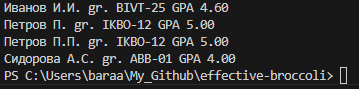
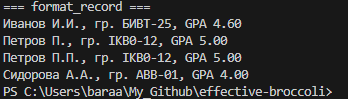
.

diff --git a/README.md b/README.md
@@ -156,7 +156,7 @@ except Exception as e:
 
 ![alt text](./images/lab02/array.png)
 
-## matrix
+### matrix
 
 ```python
 def transpose(mat: list[list[float | int]]) -> list[list]:
@@ -234,28 +234,43 @@ except Exception as e:
 
 ![alt text](./images/lab02/matrix.png)
 
-## tuples
+### tuples
 
 ```python
-def format_record(fio: str,group: str,gpa: float) -> str:
-    if not fio or not group:
-        raise ValueError("you have to enter the name")
-    if not isinstance(gpa, (float, int)):
-        raise TypeError("type GPA shoud not be str")
-    sfio=fio.split()
-    sfio_len=len(sfio)
-    f=sfio[0].capitalize()+" " if sfio_len >= 1 else ""
-    i=sfio[1][0].capitalize()+"." if sfio_len >= 2 else ""
-    o=sfio[2][0].capitalize()+"." if sfio_len >= 3 else ""
-    x=f+i+o
-    y=f"gr. {group}"
-    z=f"GPA {gpa:.2f}"
-    s= x + " " + y + " " + z
-    return s
-print(format_record("Иванов Иван Иванович", "BIVT-25", 4.6))
-print(format_record("Петров Пётр", "IKBO-12", 5.0))
-print(format_record("Петров Пётр Петрович", "IKBO-12", 5.0))
-print(format_record("  сидорова  анна   сергеевна ", "ABB-01", 3.999))
+def format_record(record):
+    if type(record) != tuple:
+        raise TypeError("Input must be a tuple")
+    if len(record) != 3:
+        raise ValueError("Tuple must have exactly 3 elements")
+    full_name, group, gpa = record
+    if type(full_name) != str:
+        raise TypeError("ФИО must be a string")
+    if type(group) != str:
+        raise TypeError("Group must be a string")
+    if type(gpa) not in (int, float):
+        raise TypeError("GPA must be a number")
+    full_name = full_name.strip()
+    if not full_name:
+        raise ValueError("ФИО cannot be empty")
+    group = group.strip()
+    if not group:
+        raise ValueError("Group cannot be empty")
+    if gpa < 0:
+        raise ValueError("GPA cannot be negative")
+    name_parts = [part.strip() for part in full_name.split() if part.strip()]
+    if len(name_parts) < 2:
+        raise ValueError("ФИО must contain at least last name and first name")
+    last_name = name_parts[0]
+    first_names = name_parts[1:]
+    initials = '.'.join(name[0].upper() for name in first_names) + '.'
+    formatted_gpa = f"{gpa:.2f}"
+    formatted_result = f"{last_name} {initials}, гр. {group}, GPA {formatted_gpa}"
+    return formatted_result
+print("=== format_record ===")   
+print(format_record(("Иванов Иван Иванович", "БИВТ-25", 4.6)))  
+print(format_record(("Петров Пётр", "IKB0-12", 5.0)))  
+print(format_record(("Петров Пётр Петрович", "IKB0-12", 5.0)))
+print(format_record(("Сидорова анна аергеевна", "АВВ-01", 3.999)))
 ```
 
 ![alt text](./images/lab02/tuples.png)
